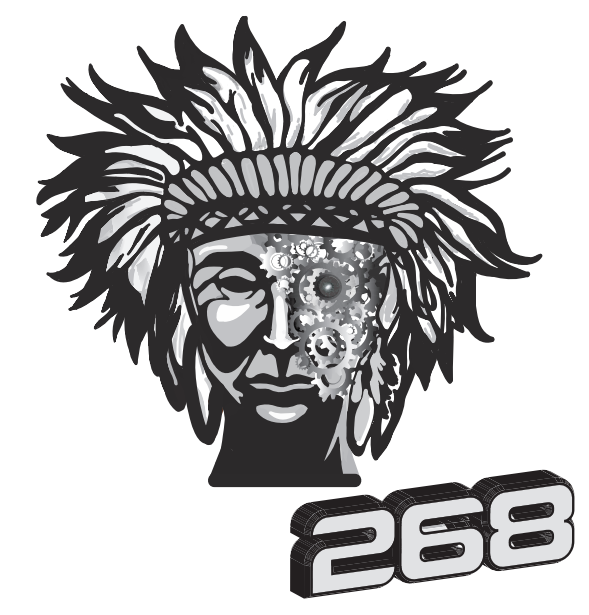
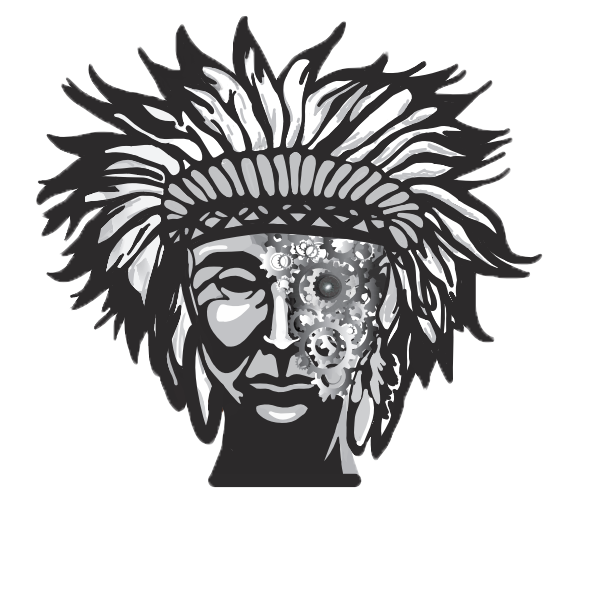
Farm Changes

diff --git a/index.html b/index.html
@@ -12,13 +12,12 @@
  <link rel="stylesheet" href="https://cdnjs.cloudflare.com/ajax/libs/materialize/0.97.7/css/materialize.min.css">
  <script src="https://cdnjs.cloudflare.com/ajax/libs/materialize/0.97.7/js/materialize.min.js"></script>
 </head>
-
 <body>
 <!--NavBar Horizontal-->
 <div class="navbar-fixed">
   <nav class="orange darken-3" role="navigation">
     <div class="nav-wrapper container">
-      <a id="logo-container" href="#" class="brand-logo white-text">Westwood RoboWarriors</a>
+      <a id="logo-container" href="#" class="brand-logo white-text left">Westwood RoboWarriors</a>
       <ul class="right hide-on-med-and-down">
         <li><a href="#concept" class="white-text">The Concept</a></li>
         <li><a href="#" class="white-text">The Task</a></li>
@@ -36,9 +35,7 @@
 <div id="index-banner" class="parallax-container">
   <div class="section no-pad-bot">
     <div class="container">
-    <br><br>
       <h1 class="header center white-text text-lighten-2 ">Westwood RoboWarriors</h1>
-    <br><br>
       <div class="row center">
         <h5 class="header col s12 light">Put in Filler Text HERE!</h5>
       </div>
@@ -46,17 +43,78 @@
       <a href="#projects" id="download-button" class="btn-large waves-effect waves-light cyan darken-3 smoothscroll">Explore</a></div>
     </div>
   </div>
-  <div class="parallax"><img src="images/timmy.jpg" alt=""></div>
+  <div class="parallax"><img src="images/head.png" alt=""></div>
 </div>
 
 
-<div class="row grey darken-1">
-  <div class="col s12 center">
-    <h3><i class="mdi-content-send brown-text"></i></h3>
-    <h4 class="white-text">Who we are</h4>
-    <p class="left-align light white-text">Lorem ipsum dolor sit amet, consectetur adipiscing elit. Nullam scelerisque id nunc nec volutpat. Etiam pellentesque tristique arcu, non consequat magna fermentum ac. Cras ut ultricies eros. Maecenas eros justo, ullamcorper a sapien id, viverra ultrices eros. Morbi sem neque, posuere et pretium eget, bibendum sollicitudin lacus. Aliquam eleifend sollicitudin diam, eu mattis nisl maximus sed. Nulla imperdiet semper molestie. Morbi massa odio, condimentum sed ipsum ac, gravida ultrices erat. Nullam eget dignissim mauris, non tristique erat. Vestibulum ante ipsum primis in faucibus orci luctus et ultrices posuere cubilia Curae;Lorem ipsum dolor sit amet, consectetur adipiscing elit. Nullam scelerisque id nunc nec volutpat. Etiam pellentesque tristique arcu, non consequat magna fermentum ac. Cras ut ultricies eros. Maecenas eros justo, ullamcorper a sapien id, viverra ultrices eros. Morbi sem neque, posuere et pretium eget, bibendum sollicitudin lacus. Aliquam eleifend sollicitudin diam, eu mattis nisl maximus sed. Nulla imperdiet semper molestie. Morbi massa odio, condimentum sed ipsum ac, gravida ultrices erat. Nullam eget dignissim mauris, non tristique erat. Vestibulum ante ipsum primis in faucibus orci luctus et ultrices posuere cubilia Curae;</p>
+<!--Farm1 Parallax-->
+<div class="row orange darken-3">
+  <div class="col s12 orange darken-3">
+    <h4 class="orange"></h4>
   </div>
 </div>
+
+<div class="parallax-container">
+  <div class="section">
+    <div class="container">
+      <h1 class="header center white-text">Who are we</h1>
+      <div class="row">
+        <div class="card z-depth-3">
+          <div class="card-image waves-effect waves-light">
+            <img class="activator" src="images/timmy.jpg">
+          </div>
+          <div class="card-content">
+            <span class="card-title activator black-text">From the Members<i class="material-icons right">more_vert</i></span>
+          </div>
+          <div class="card-reveal grey">
+            <span class="card-title white-text ">Here are what some of the members think<i class="material-icons right">close</i></span>
+              <p>
+                <ul class="left white-text">
+                  <li><h3>"Lmao"</h3></li>
+                  <li><h3>"Lmao"</h3></li>
+                  <li><h3>"Lmao"</h3></li>
+                </ul>
+              </p>
+            </div>
+          </div>
+          <div class="card right">
+            <div class="card-content white-text">
+              <span class="card-title">Card Title</span>
+              <p>Lorem ipsum dolor sit amet, consectetur adipisicing elit, sed do eiusmod tempor incididunt ut labore et dolore magna aliqua. Ut enim ad minim veniam, quis nostrud exercitation ullamco laboris nisi ut aliquip ex ea commodo consequat. Duis aute irure dolor in reprehenderit in voluptate velit esse cillum dolore eu fugiat nulla pariatur. Excepteur sint occaecat cupidatat non proident, sunt in culpa qui officia deserunt mollit anim id est laborum.
+              Excepteur sint occaecat cupidatat non proident, sunt in culpa qui </p>
+            </div>
+          </div>
+        </div>
+    <div class="row center">
+      <a href="#"></a></div>
+    </div>
+  </div>
+  <div class="parallax"><img src="images/farm1.jpg" alt=""></div>
+</div>
+
+
+
+
+
+
+
+
+
+
+
+
+
+
+
+
+
+
+
+
+
+
+
+
 
 <!--The Concept-->
 <a name="concept"></a>

diff --git a/css/style.css b/css/style.css
@@ -20,7 +20,7 @@ p {
 }
 
 .parallax-container {
-  min-height: 100px;
+  min-height: 600px;
   line-height: 0;
   height: auto;
   color: rgba(255,255,255,.9);
